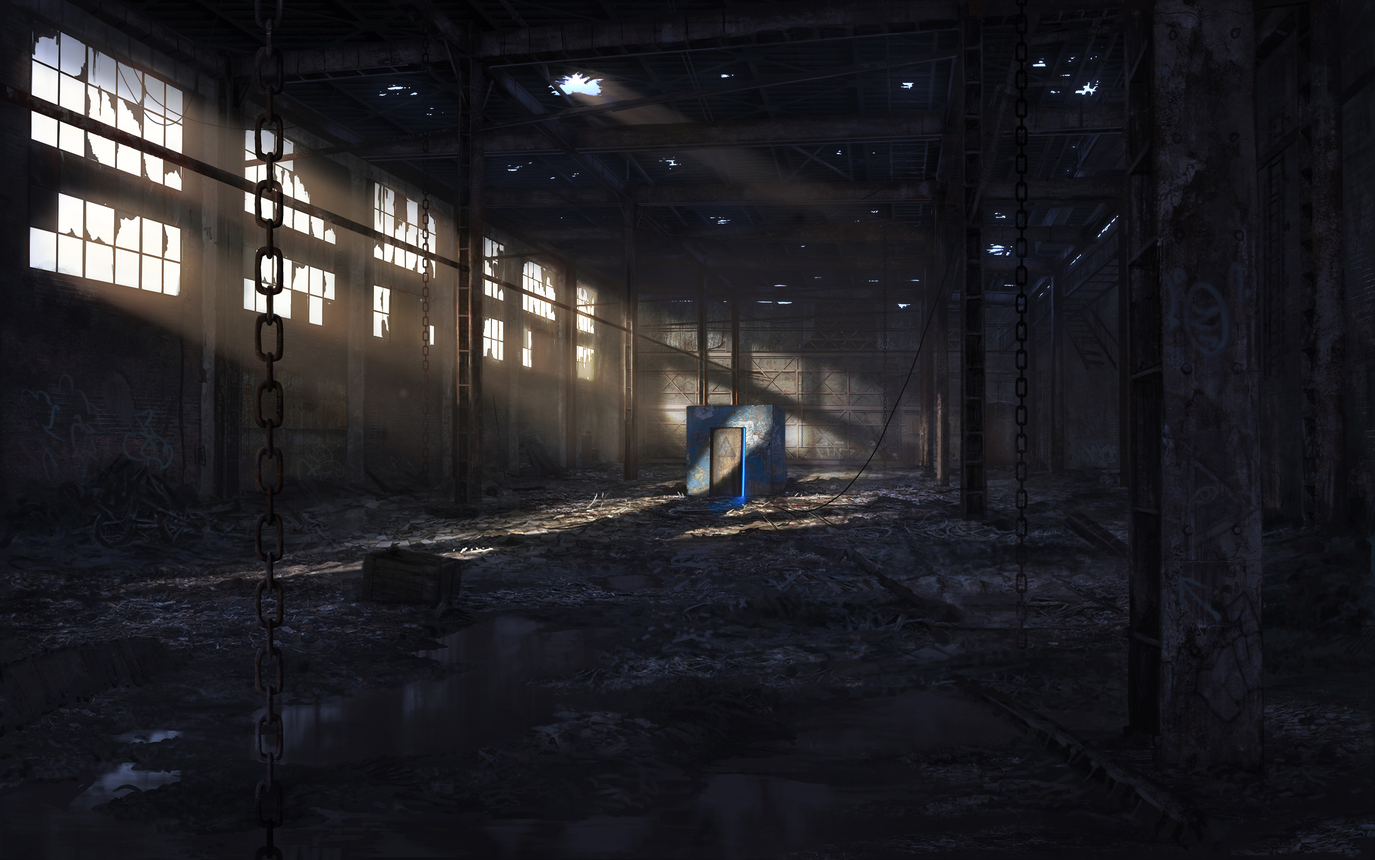
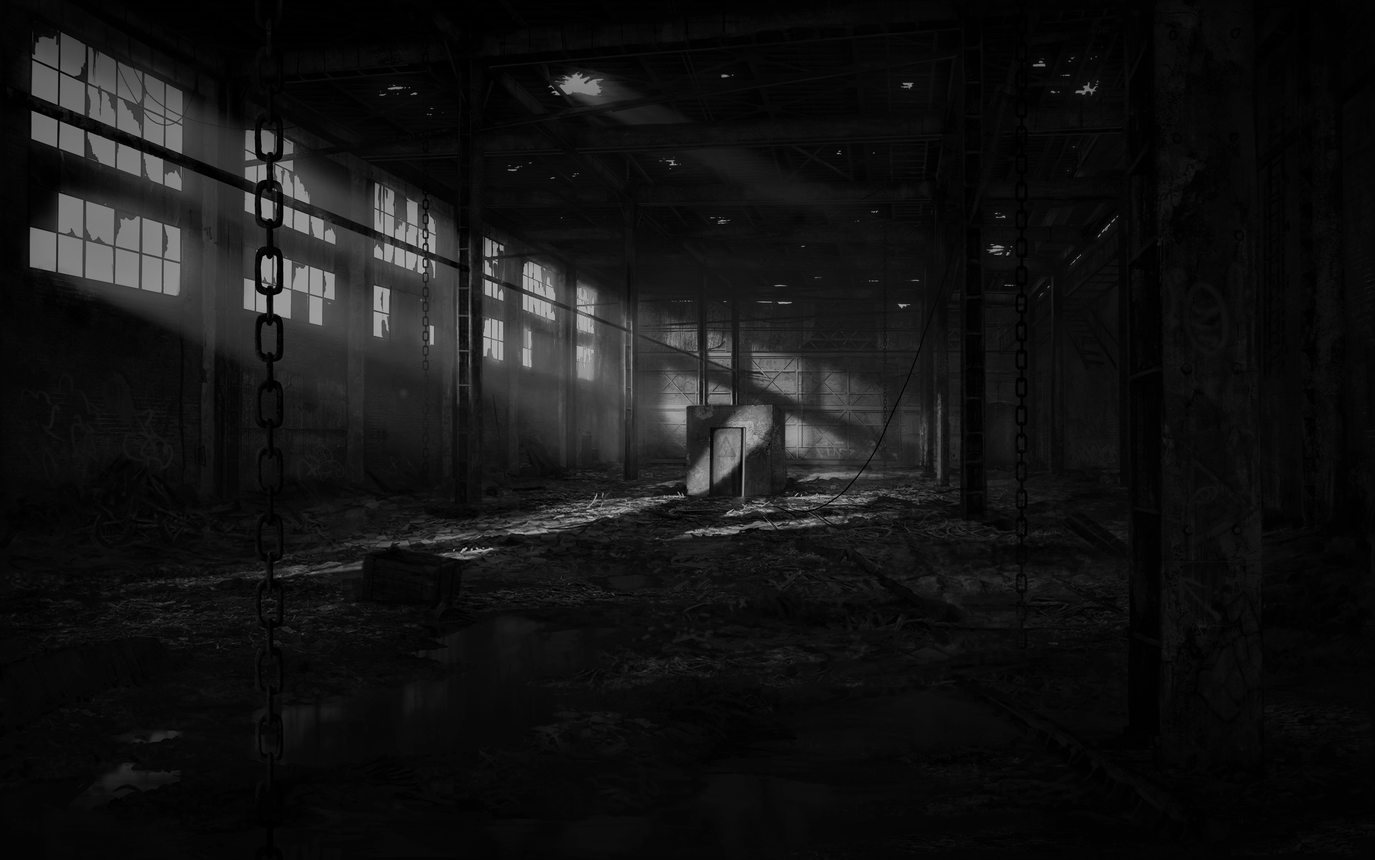
Removed the unnes. background image.

diff --git a/src/main/resources/static/css/style.css b/src/main/resources/static/css/style.css
@@ -50,7 +50,7 @@ table {
 /* BODY */
 body {
     background-color: black;
-    background-image: url('../img/layout/background2.jpg');
+    background-image: url('../img/layout/background.jpg');
 }
 /*CONTAINER*/
 #container {
